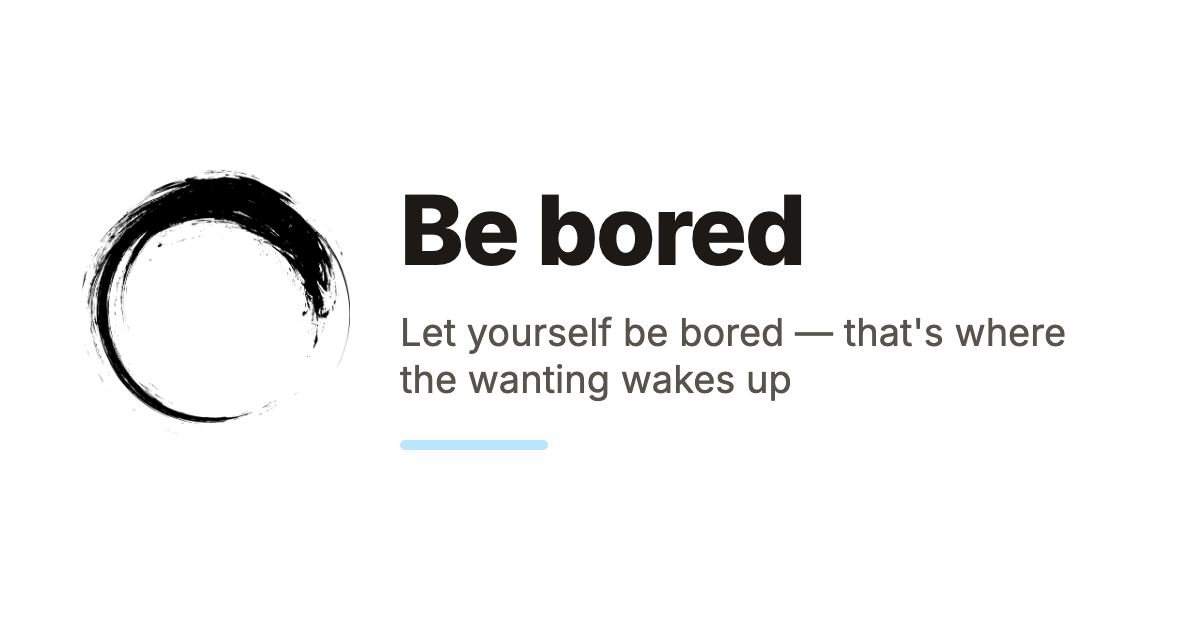
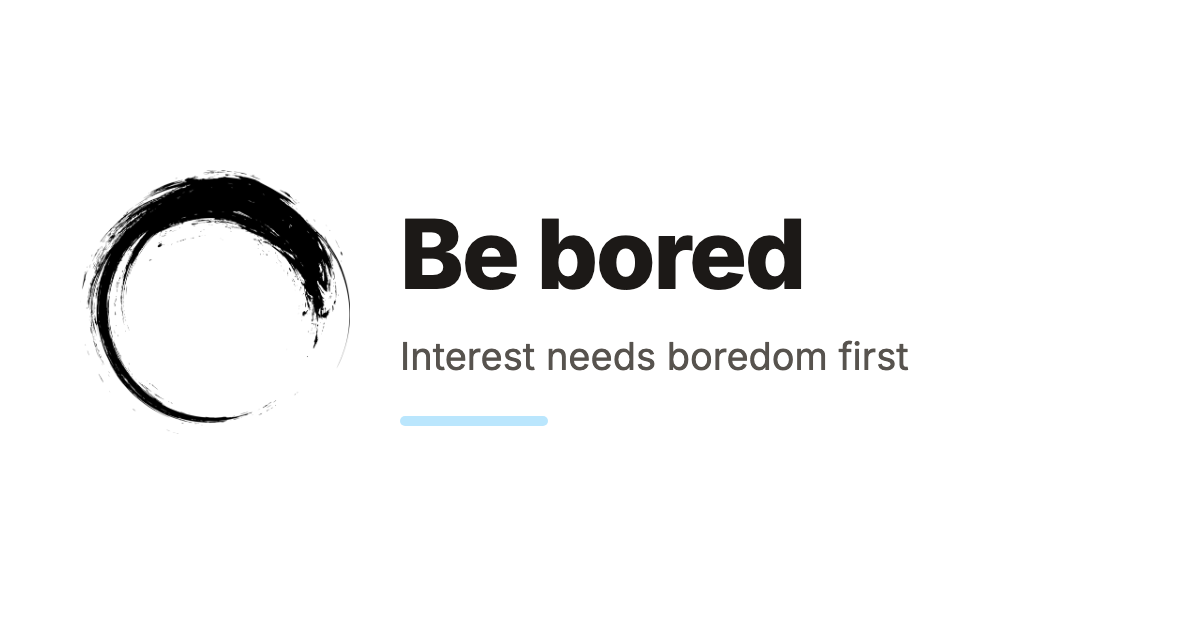
build

Changed region(s): [[0.3083, 0.3016, 0.8942, 0.7238]]

diff --git a/ru/be-bored.html b/ru/be-bored.html
@@ -18,8 +18,8 @@
 <title>Скучай | tellothers.com</title>
 <meta property="og:title" content="Скучай" />
 <meta property="og:locale" content="ru_RU" />
-<meta name="description" content="Дай себе заскучать — там просыпается «хочу». Радость — это дофамин: ты что-то сделал, добился — и кайфанул. Это и есть награда. Та самая, добытая." />
-<meta property="og:description" content="Дай себе заскучать — там просыпается «хочу». Радость — это дофамин: ты что-то сделал, добился — и кайфанул. Это и есть награда. Та самая, добытая." />
+<meta name="description" content="Чтобы был интерес, должно быть скучно. «Пап, дай айпад, я позырю мультики». Радость — это дофамин: что-то сделал, добился — и кайфанул." />
+<meta property="og:description" content="Чтобы был интерес, должно быть скучно. «Пап, дай айпад, я позырю мультики». Радость — это дофамин: что-то сделал, добился — и кайфанул." />
 <link rel="canonical" href="https://tellothers.com/ru/be-bored" />
 <meta property="og:url" content="https://tellothers.com/ru/be-bored" />
 <meta property="og:site_name" content="tellothers.com" />
@@ -99,22 +99,18 @@
     </h1>
 
       <p class="text-lg sm:text-xl text-stone-500 leading-snug">
-        Дай себе заскучать — там просыпается «хочу»
+        Чтобы был интерес, должно быть скучно
       </p>
   </header>
 
   <div class="prose prose-stone max-w-none">
-    <p>Радость — это дофамин: ты что-то сделал, добился — и кайфанул. Это и есть награда. Та самая, добытая.</p>
+    <p>«Пап, дай айпад, я позырю мультики».</p>
 
-<p>Экран даёт тот же кайф без дела. Просто включил и тыришься. Берёшь — голод уходит, копать нечего.</p>
+<p>Радость — это дофамин: что-то сделал, добился — и кайфанул. Экран даёт тот же кайф без дела. Включил и тыришься.</p>
 
-<p>Так что не заполняй скуку. Это пустое место, где просыпается твоё «хочу».</p>
+<p>Не корми ребёнка экраном. Чтобы был интерес, ему должно быть скучно, нечем заняться. Скука — двигатель прогресса. Из неё вырастает «хочу что-то сделать».</p>
 
-<p>Нужно время в уединении, чтобы выдумывать себя. Иначе ты просто собака Павлова: загорелась лампочка — потекла слюна.</p>
-
-<p>Чтобы был интерес, надо, чтобы ребёнку было скучно. Скука — двигатель прогресса, из скуки рождается интерес.</p>
-
-<p>Наша задача не воспитывать, а научить жить. Мы всё перепутали.</p>
+<p>Нужно время в уединении, чтобы выдумывать себя. Иначе ты собака Павлова: загорелась лампочка — потекла слюна.</p>
 
 <p>Скучай.</p>
 
@@ -129,12 +125,12 @@
   "@type": "Article",
   "name": "Скучай",
   "headline": "Скучай",
-  "description": "Дай себе заскучать — там просыпается «хочу»",
+  "description": "Чтобы был интерес, должно быть скучно",
   "url": "https://tellothers.com/ru/be-bored",
   "mainEntityOfPage": "https://tellothers.com/ru/be-bored",
   "image": "https://tellothers.com/images/og/be-bored.ru.png",
   "datePublished": "2026-10-05T11:10:52+07:00",
-  "dateModified": "2026-10-15T17:39:02+07:00",
+  "dateModified": "2026-10-22T16:31:46+07:00",
   "inLanguage": "ru",
   "isPartOf": {
     "@type": "WebSite",

diff --git a/be-bored.html b/be-bored.html
@@ -18,8 +18,8 @@
 <title>Be bored | tellothers.com</title>
 <meta property="og:title" content="Be bored" />
 <meta property="og:locale" content="en_US" />
-<meta name="description" content="Let yourself be bored — that&#39;s where the wanting wakes up. Joy is dopamine: you do something, you land it, and the hit comes. That&#39;s the reward." />
-<meta property="og:description" content="Let yourself be bored — that&#39;s where the wanting wakes up. Joy is dopamine: you do something, you land it, and the hit comes. That&#39;s the reward." />
+<meta name="description" content="Interest needs boredom first. &quot;Dad, can I have the iPad? I want to watch cartoons.&quot; Joy is dopamine: you do something, you pull it off, you get the hit." />
+<meta property="og:description" content="Interest needs boredom first. &quot;Dad, can I have the iPad? I want to watch cartoons.&quot; Joy is dopamine: you do something, you pull it off, you get the hit." />
 <link rel="canonical" href="https://tellothers.com/be-bored" />
 <meta property="og:url" content="https://tellothers.com/be-bored" />
 <meta property="og:site_name" content="tellothers.com" />
@@ -99,22 +99,18 @@
     </h1>
 
       <p class="text-lg sm:text-xl text-stone-500 leading-snug">
-        Let yourself be bored — that’s where the wanting wakes up
+        Interest needs boredom first
       </p>
   </header>
 
   <div class="prose prose-stone max-w-none">
-    <p>Joy is dopamine: you do something, you land it, and the hit comes. That’s the reward. That’s the real one — earned.</p>
+    <p>&#8220;Dad, can I have the iPad? I want to watch cartoons.&#8221;</p>
 
-<p>The screen gives you the same hit without the doing. You just switch it on and scroll. Take it, and the hunger is gone — there’s nothing left to dig for.</p>
+<p>Joy is dopamine: you do something, you pull it off, you get the hit. A screen gives you the same hit for nothing. Switch it on and stare.</p>
 
-<p>So don’t fill the boredom. It’s the empty space where your own “I want” wakes up.</p>
+<p>Don&#8217;t feed a kid the screen. For interest to show up, they have to be bored, with nothing to do. Boredom is the engine of progress. It&#8217;s where &#8220;I want to make something&#8221; comes from.</p>
 
-<p>You need time alone to invent yourself. Otherwise you’re just Pavlov’s dog: the light comes on, you drool.</p>
-
-<p>For interest to show up, a kid has to be bored. Boredom is the engine of progress. Interest grows out of it.</p>
-
-<p>Our job isn’t to raise kids. It’s to teach them to live. We got it all mixed up.</p>
+<p>You need time alone to invent yourself. Otherwise you&#8217;re Pavlov&#8217;s dog: the light comes on, you drool.</p>
 
 <p>Be bored.</p>
 
@@ -129,12 +125,12 @@
   "@type": "Article",
   "name": "Be bored",
   "headline": "Be bored",
-  "description": "Let yourself be bored — that's where the wanting wakes up",
+  "description": "Interest needs boredom first",
   "url": "https://tellothers.com/be-bored",
   "mainEntityOfPage": "https://tellothers.com/be-bored",
   "image": "https://tellothers.com/images/og/be-bored.en.png",
   "datePublished": "2026-10-05T11:10:52+07:00",
-  "dateModified": "2026-10-15T17:39:02+07:00",
+  "dateModified": "2026-10-22T16:31:46+07:00",
   "inLanguage": "en",
   "isPartOf": {
     "@type": "WebSite",

diff --git a/ru/index.html b/ru/index.html
@@ -25,7 +25,7 @@
 <meta property="og:site_name" content="tellothers.com" />
 <meta property="og:image" content="https://tellothers.com/images/og-ru.png" />
 <meta property="og:type" content="article" />
-<meta property="article:published_time" content="2026-10-22T02:19:30-07:00" />
+<meta property="article:published_time" content="2026-10-22T02:31:54-07:00" />
 <meta name="twitter:card" content="summary_large_image" />
 <meta property="twitter:image" content="https://tellothers.com/images/og-ru.png" />
 <meta property="twitter:title" content="Сработало? Скажи другим." />
@@ -447,7 +447,7 @@
 
     <a href="/ru/be-bored" class="group block no-underline rounded-lg hover:bg-white p-4 transition-all duration-700 ease-out hover:shadow-lg hover:shadow-stone-900/5">
   <div class="font-sans font-bold text-stone-800 group-hover:text-stone-950 transition duration-700">Скучай</div>
-    <div class="mt-1 text-sm text-stone-600 leading-snug transition duration-700">Дай себе заскучать — там просыпается «хочу»</div>
+    <div class="mt-1 text-sm text-stone-600 leading-snug transition duration-700">Чтобы был интерес, должно быть скучно</div>
 </a>
 
 

diff --git a/index.html b/index.html
@@ -25,7 +25,7 @@
 <meta property="og:site_name" content="tellothers.com" />
 <meta property="og:image" content="https://tellothers.com/images/og-en.png" />
 <meta property="og:type" content="article" />
-<meta property="article:published_time" content="2026-10-22T02:19:30-07:00" />
+<meta property="article:published_time" content="2026-10-22T02:31:54-07:00" />
 <meta name="twitter:card" content="summary_large_image" />
 <meta property="twitter:image" content="https://tellothers.com/images/og-en.png" />
 <meta property="twitter:title" content="It worked? Tell others." />
@@ -447,7 +447,7 @@
 
     <a href="/be-bored" class="group block no-underline rounded-lg hover:bg-white p-4 transition-all duration-700 ease-out hover:shadow-lg hover:shadow-stone-900/5">
   <div class="font-sans font-bold text-stone-800 group-hover:text-stone-950 transition duration-700">Be bored</div>
-    <div class="mt-1 text-sm text-stone-600 leading-snug transition duration-700">Let yourself be bored — that&#39;s where the wanting wakes up</div>
+    <div class="mt-1 text-sm text-stone-600 leading-snug transition duration-700">Interest needs boredom first</div>
 </a>
 
 

diff --git a/ru/mine-joy.html b/ru/mine-joy.html
@@ -159,7 +159,7 @@
       <div class="grid sm:grid-cols-2 gap-3 -mx-4">
             <a href="/ru/be-bored" class="group block no-underline rounded-lg hover:bg-white p-4 transition-all duration-700 ease-out hover:shadow-lg hover:shadow-stone-900/5">
   <div class="font-sans font-bold text-stone-800 group-hover:text-stone-950 transition duration-700">Скучай</div>
-    <div class="mt-1 text-sm text-stone-600 leading-snug transition duration-700">Дай себе заскучать — там просыпается «хочу»</div>
+    <div class="mt-1 text-sm text-stone-600 leading-snug transition duration-700">Чтобы был интерес, должно быть скучно</div>
 </a>
 
             <a href="/ru/the-day-only-gets-better" class="group block no-underline rounded-lg hover:bg-white p-4 transition-all duration-700 ease-out hover:shadow-lg hover:shadow-stone-900/5">

diff --git a/mine-joy.html b/mine-joy.html
@@ -159,7 +159,7 @@
       <div class="grid sm:grid-cols-2 gap-3 -mx-4">
             <a href="/be-bored" class="group block no-underline rounded-lg hover:bg-white p-4 transition-all duration-700 ease-out hover:shadow-lg hover:shadow-stone-900/5">
   <div class="font-sans font-bold text-stone-800 group-hover:text-stone-950 transition duration-700">Be bored</div>
-    <div class="mt-1 text-sm text-stone-600 leading-snug transition duration-700">Let yourself be bored — that&#39;s where the wanting wakes up</div>
+    <div class="mt-1 text-sm text-stone-600 leading-snug transition duration-700">Interest needs boredom first</div>
 </a>
 
             <a href="/the-day-only-gets-better" class="group block no-underline rounded-lg hover:bg-white p-4 transition-all duration-700 ease-out hover:shadow-lg hover:shadow-stone-900/5">

diff --git a/ru/children.html b/ru/children.html
@@ -184,7 +184,7 @@
 
             <a href="/ru/be-bored" class="group block no-underline rounded-lg hover:bg-white p-4 transition-all duration-700 ease-out hover:shadow-lg hover:shadow-stone-900/5">
   <div class="font-sans font-bold text-stone-800 group-hover:text-stone-950 transition duration-700">Скучай</div>
-    <div class="mt-1 text-sm text-stone-600 leading-snug transition duration-700">Дай себе заскучать — там просыпается «хочу»</div>
+    <div class="mt-1 text-sm text-stone-600 leading-snug transition duration-700">Чтобы был интерес, должно быть скучно</div>
 </a>
 
             <a href="/ru/be-kind" class="group block no-underline rounded-lg hover:bg-white p-4 transition-all duration-700 ease-out hover:shadow-lg hover:shadow-stone-900/5">

diff --git a/children.html b/children.html
@@ -184,7 +184,7 @@
 
             <a href="/be-bored" class="group block no-underline rounded-lg hover:bg-white p-4 transition-all duration-700 ease-out hover:shadow-lg hover:shadow-stone-900/5">
   <div class="font-sans font-bold text-stone-800 group-hover:text-stone-950 transition duration-700">Be bored</div>
-    <div class="mt-1 text-sm text-stone-600 leading-snug transition duration-700">Let yourself be bored — that&#39;s where the wanting wakes up</div>
+    <div class="mt-1 text-sm text-stone-600 leading-snug transition duration-700">Interest needs boredom first</div>
 </a>
 
             <a href="/be-kind" class="group block no-underline rounded-lg hover:bg-white p-4 transition-all duration-700 ease-out hover:shadow-lg hover:shadow-stone-900/5">

diff --git a/404.html b/404.html
@@ -25,7 +25,7 @@
 <meta property="og:site_name" content="tellothers.com" />
 <meta property="og:image" content="https://tellothers.com/images/og-en.png" />
 <meta property="og:type" content="article" />
-<meta property="article:published_time" content="2026-10-22T02:19:30-07:00" />
+<meta property="article:published_time" content="2026-10-22T02:31:54-07:00" />
 <meta name="twitter:card" content="summary_large_image" />
 <meta property="twitter:image" content="https://tellothers.com/images/og-en.png" />
 <meta property="twitter:title" content="404" />

diff --git a/500.html b/500.html
@@ -25,7 +25,7 @@
 <meta property="og:site_name" content="tellothers.com" />
 <meta property="og:image" content="https://tellothers.com/images/og-en.png" />
 <meta property="og:type" content="article" />
-<meta property="article:published_time" content="2026-10-22T02:19:30-07:00" />
+<meta property="article:published_time" content="2026-10-22T02:31:54-07:00" />
 <meta name="twitter:card" content="summary_large_image" />
 <meta property="twitter:image" content="https://tellothers.com/images/og-en.png" />
 <meta property="twitter:title" content="500" />
